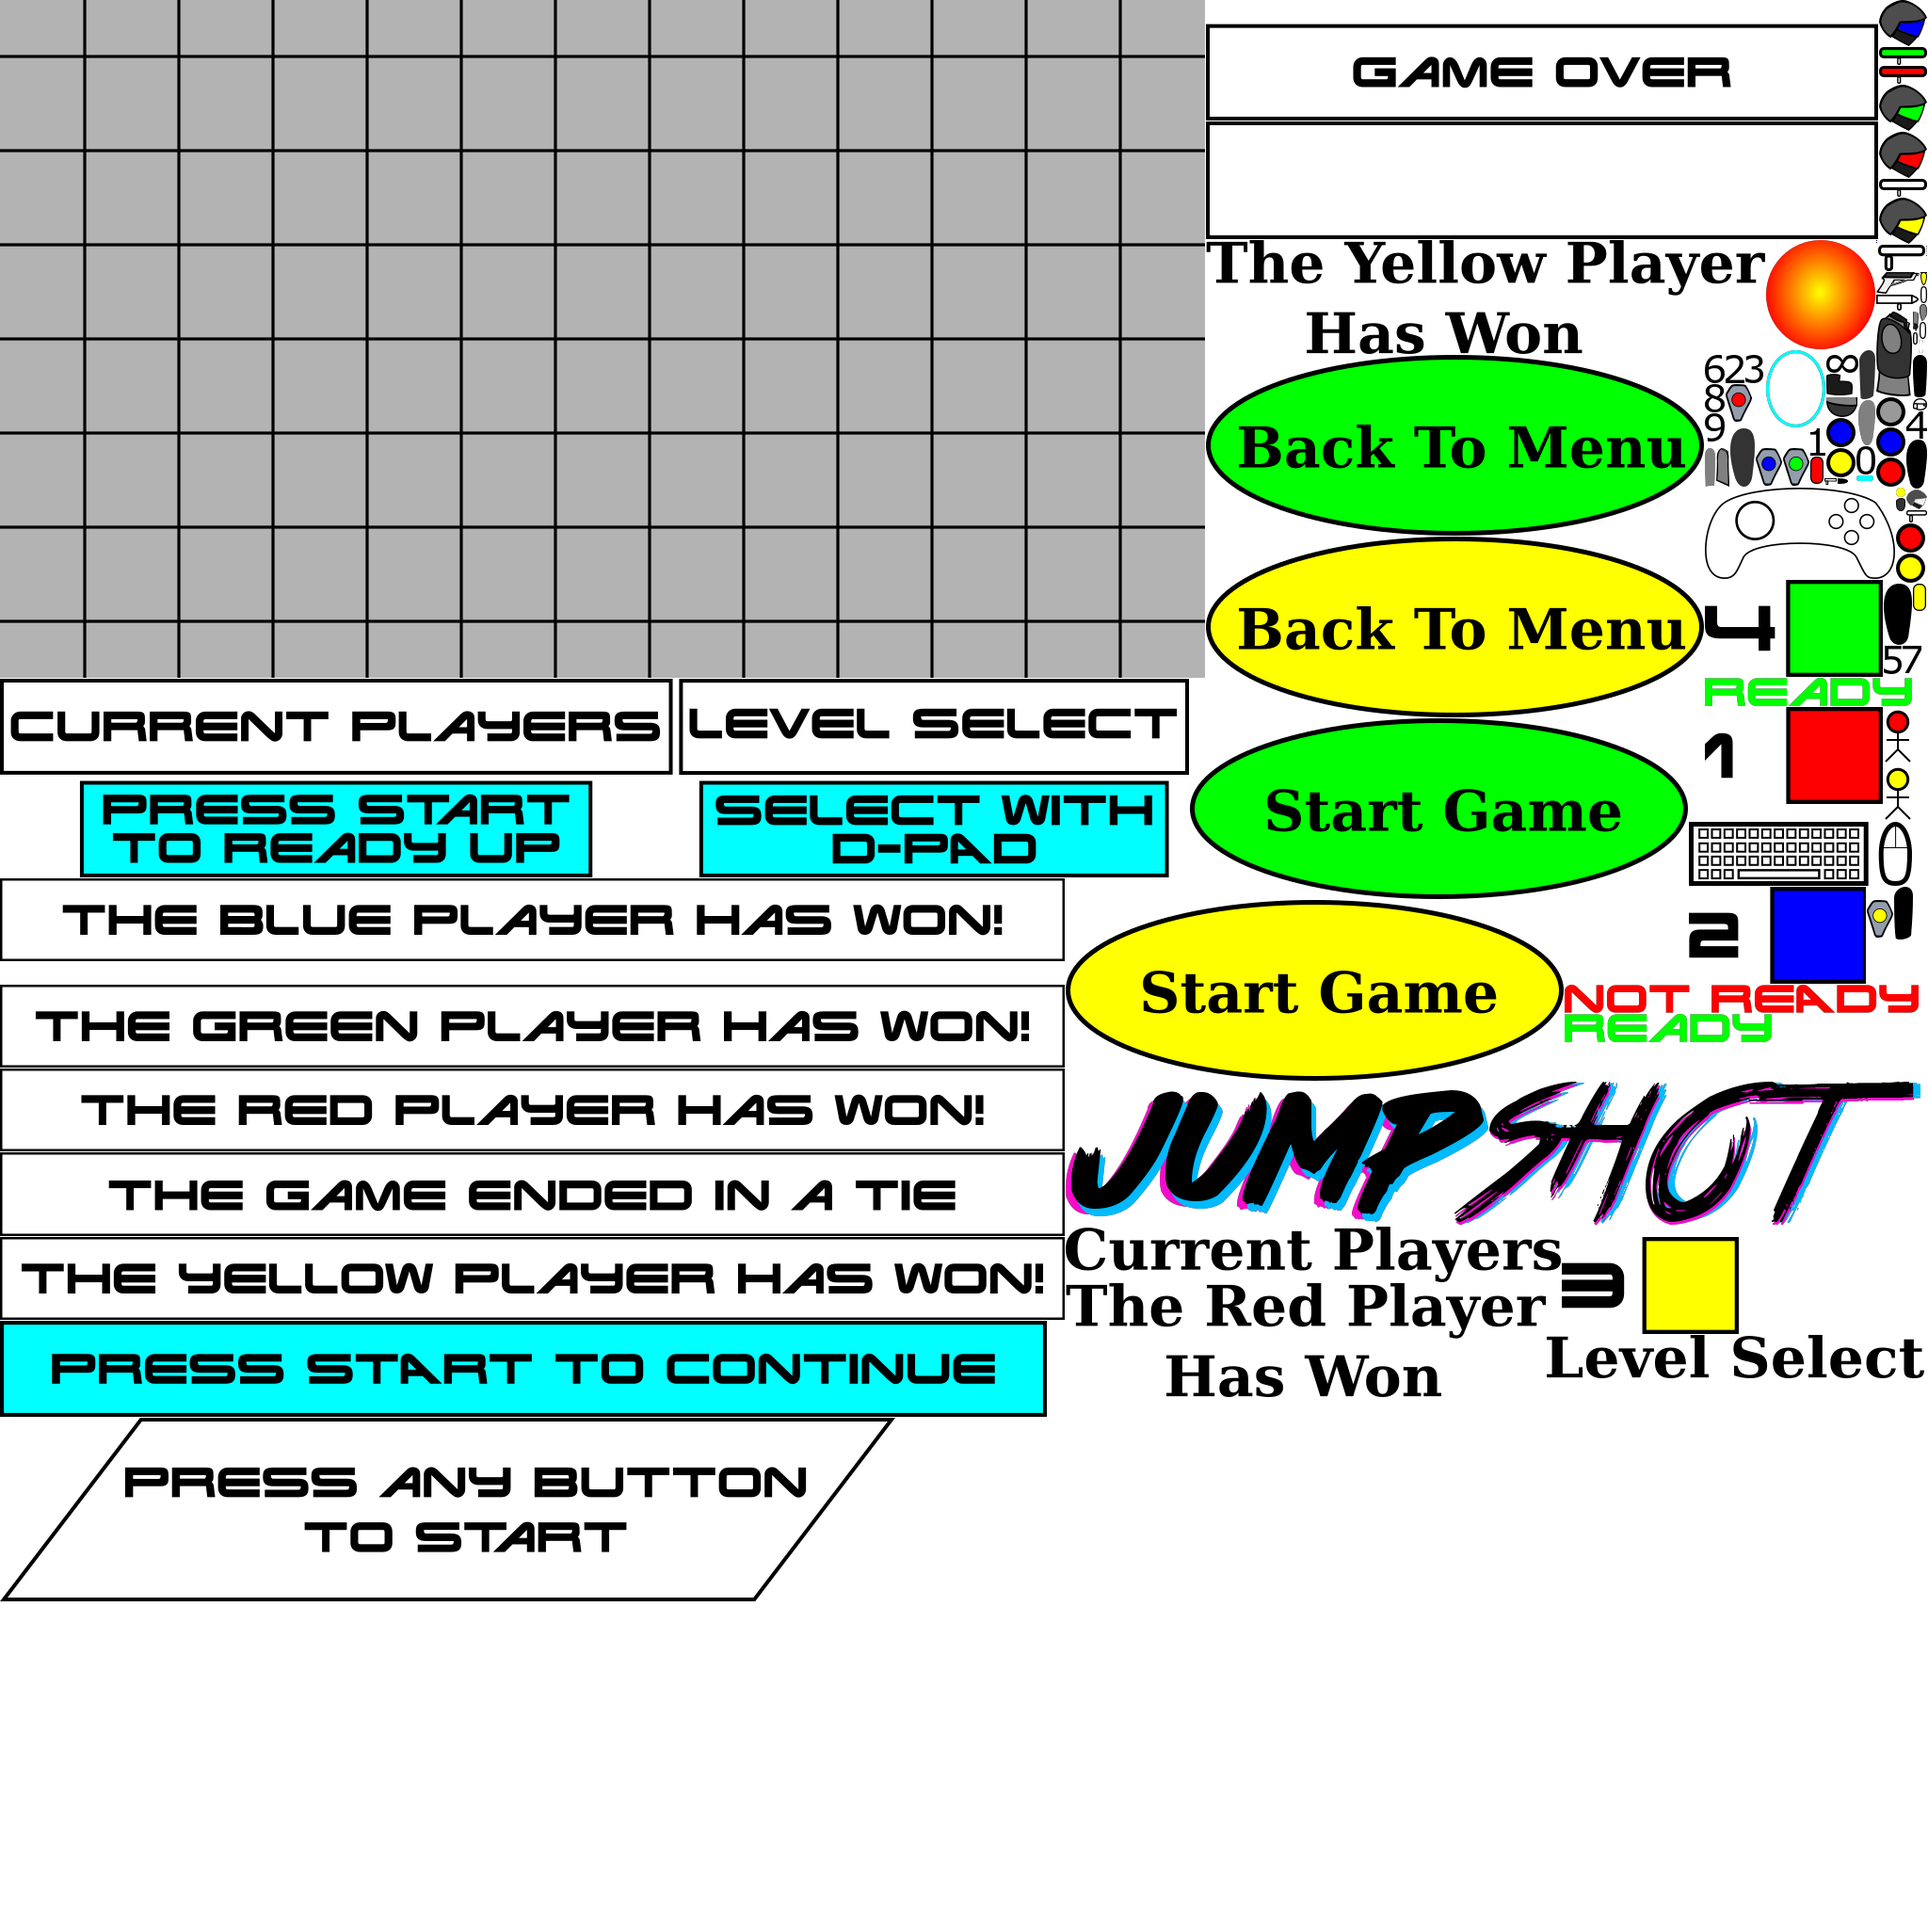
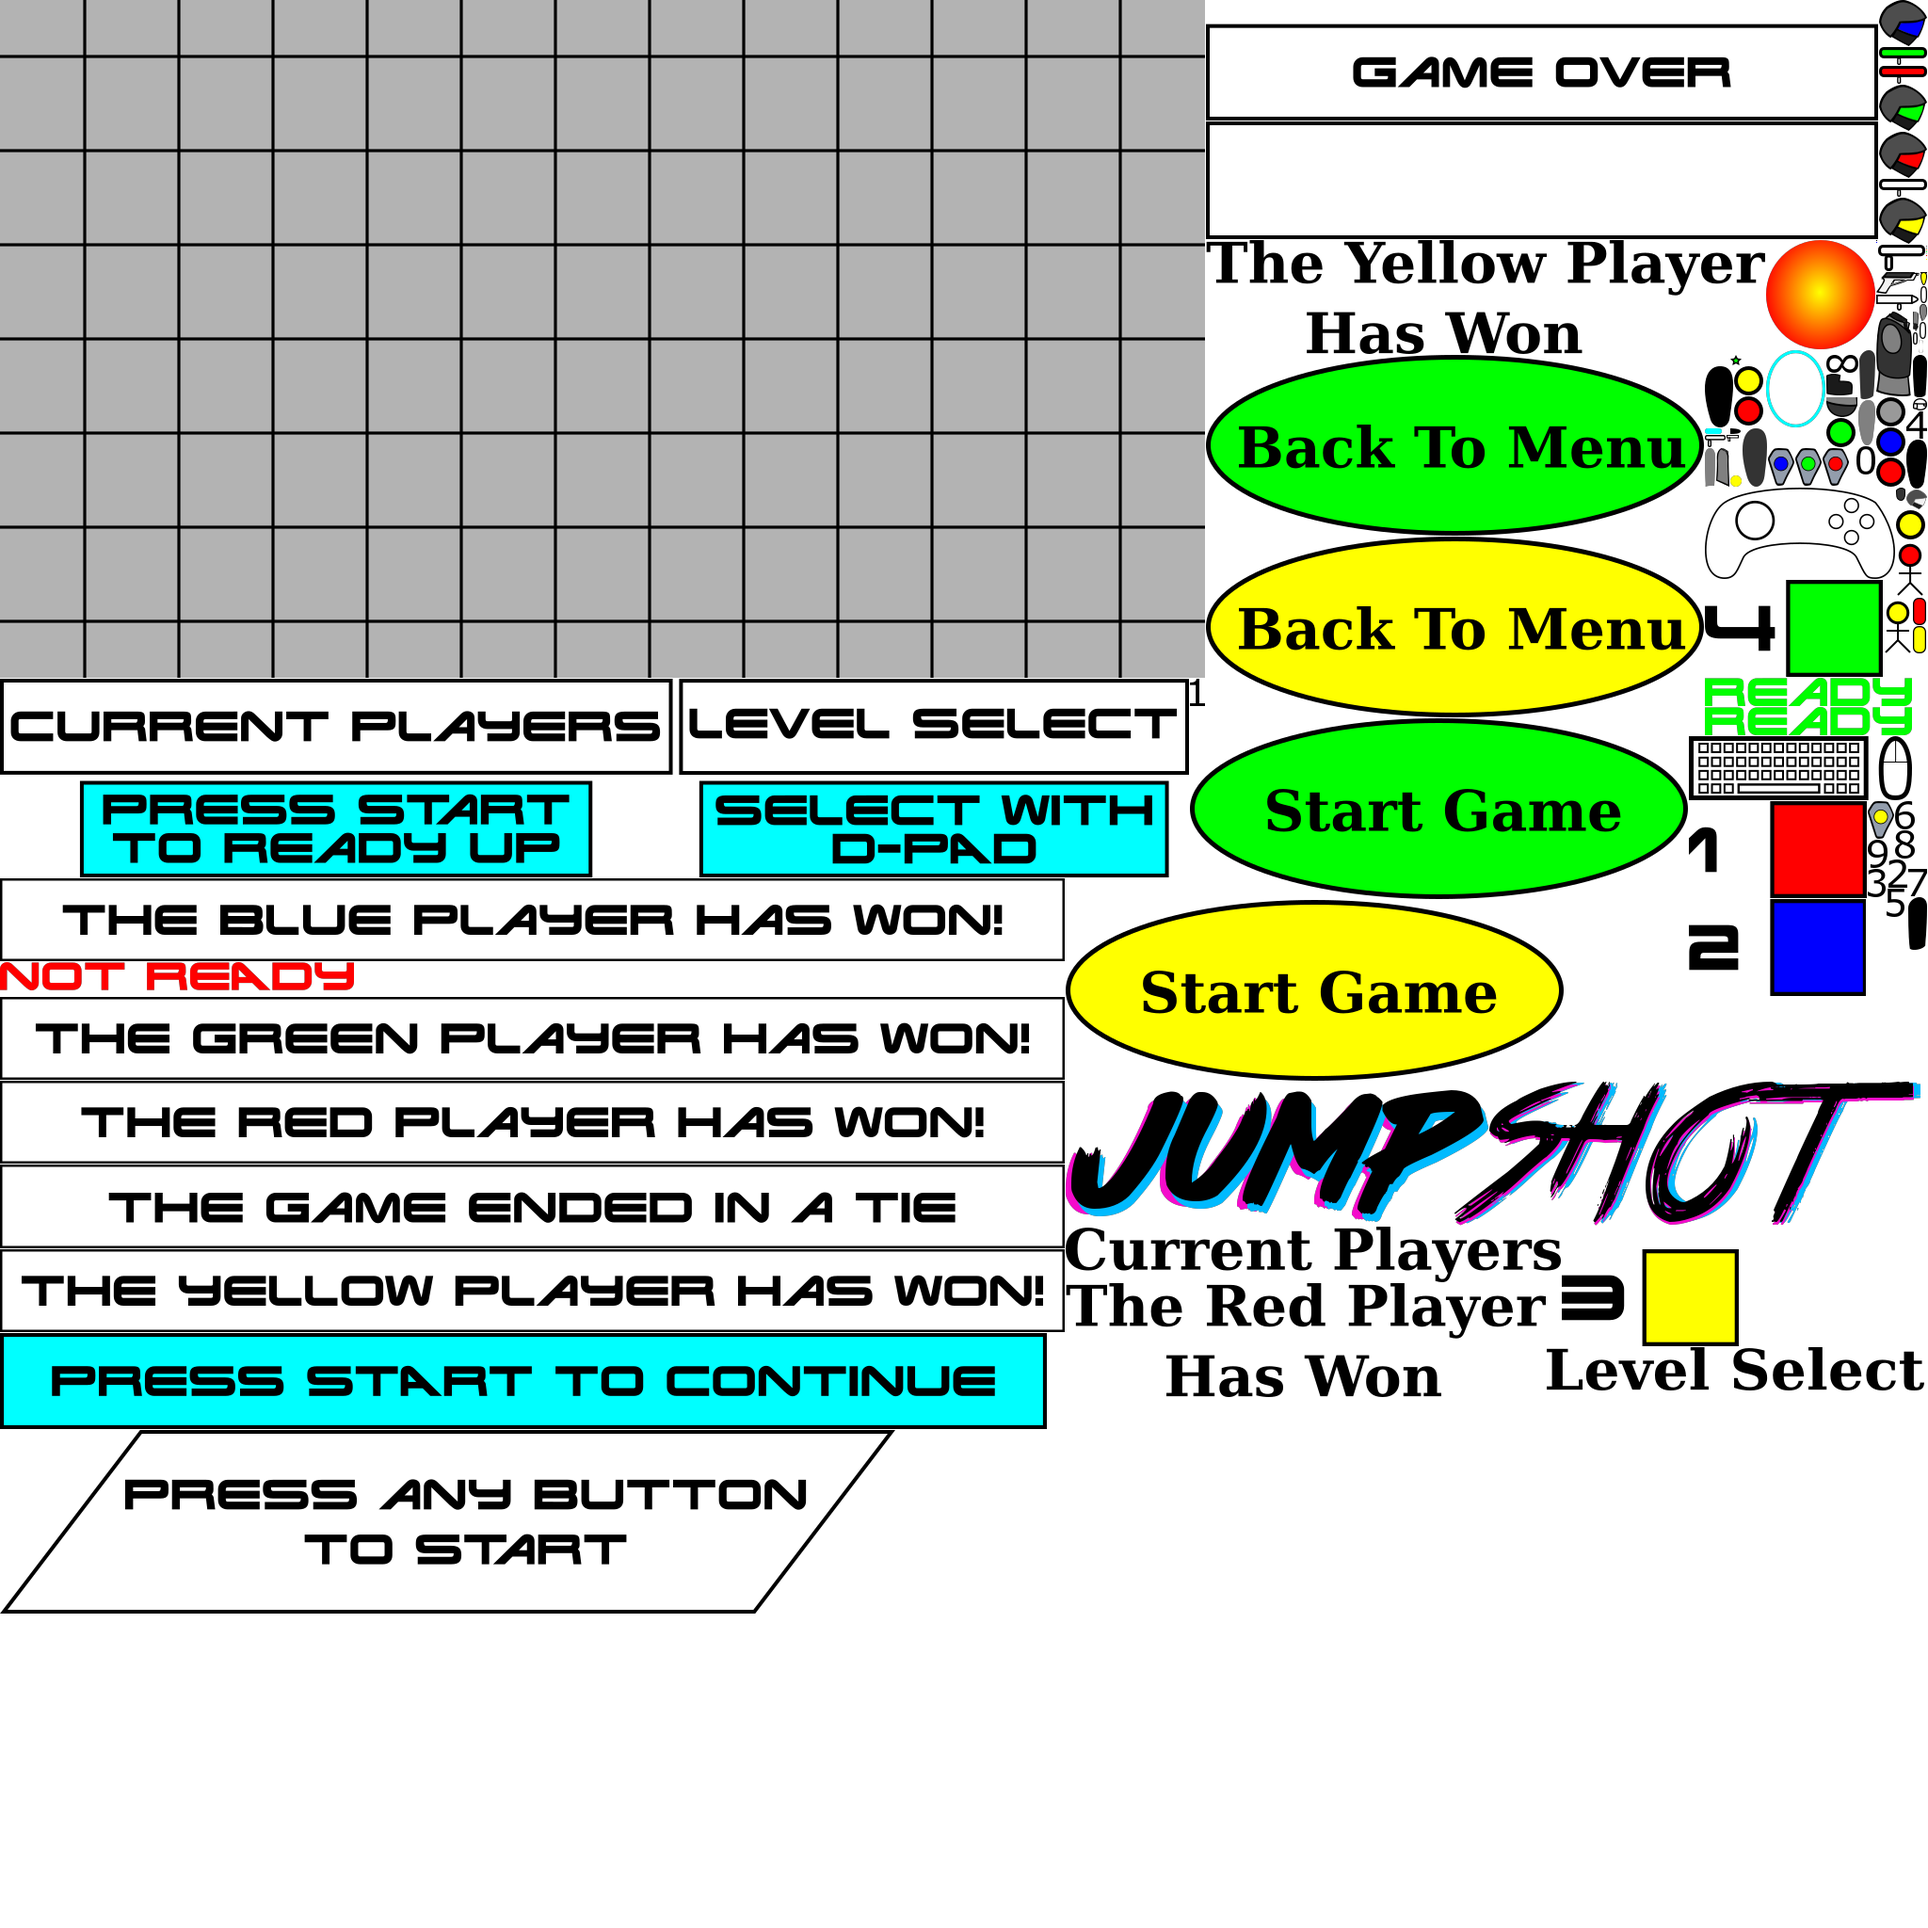
Switch to kills rather than deaths

diff --git a/src/gamescreen.cpp b/src/gamescreen.cpp
@@ -16,6 +16,8 @@
 #define WALL_GRACE 3
 #define GROUND_GRACE 5
 
+const int KILLS_TO_WIN = 5;
+
 GameScreen::GameScreen(const std::vector<PlayerInfo> &infos, const Level& a_level): level(a_level), camera(level.width, level.height) {
 
     // Initialize the player state
@@ -59,58 +61,16 @@ void GameScreen::render(RenderList& list) const {
 
     list.pop();
 
-    // TODO: figure out what HUD elements are staying
-    //list.add_image("black", 0, 660, 1280, 60);
-//    for (unsigned int i = 0; i < players.size(); i++) {
-//        const auto& player = players[i];
-//
-//        int x_offset = 0;
-//
-//        if (i == 0) {
-//            x_offset = 275/2.0;
-//        } else {
-//            x_offset = 1280 - 275/2.0;
-//        }
-//
-//        list.translate(x_offset, 0);
-//
-//        Rectangle info_box(0, 690, 275, 60);
-//        list.add_rect("white", info_box);
-//        list.add_outline("black", info_box);
-//
-//        std::string life_color = "life-" + get_color_name(player.info.color);
-//
-//        const char* dead_color = "deadLife";
-//
-//        for (int i = 0; i < 3; i++) {
-//            Rectangle life_box(-100 + i * 45, 690, 30, 30);
-//            list.add_rect(player.state.lives_left > i ? life_color : dead_color, life_box);
-//        }
-//
-//        {
-//            list.translate(40, 690);
-//            player.state.gun->render_large(list);
-//            list.translate(-40, -690);
-//        }
-//
-//        if (player.state.ammo_left != -1) {
-//            list.add_number(80, 705, player.state.ammo_left);
-//        } else {
-//            list.add_image("inf", 80, 705 - 19);
-//        }
-//
-//        list.translate(-x_offset, 0);
-//    }
-
-
-
-
     if (game_over) {
-        std::string winning_color = "tie";
+        std::string winning_color = "";
 
         for (const auto& player: players) {
-            if (player.state.lives_left != 0) {
-                winning_color = get_color_name(player.info.color);
+            if (player.state.kills == KILLS_TO_WIN) {
+                if (winning_color == "") {
+                    winning_color = get_color_name(player.info.color);
+                } else {
+                    winning_color = "tie";
+                }
             }
         }
 
@@ -507,16 +467,16 @@ std::unique_ptr<Screen> GameScreen::update(const std::map<int, inputs>& all_joys
         }
     }
 
-    auto damage_player_func = [&](int player_index, double damage) {
-        damage_player(player_index, damage);
-    };
-
     bool hit_something = false;
 
     // Update all the bullets
     for (auto& bullet : bullets) {
         double dx = bullet->get_velocity() * cos(bullet->angle);
         double dy = bullet->get_velocity() * sin(bullet->angle);
+
+        auto damage_player_func = [&](int player_index, double damage) {
+            damage_player(player_index, damage, bullet->player_owner);
+        };
 
         bool is_dead = false;
 
@@ -603,7 +563,7 @@ std::unique_ptr<Screen> GameScreen::update(const std::map<int, inputs>& all_joys
     return nullptr;
 }
 
-void GameScreen::damage_player(int player_index, double damage) {
+void GameScreen::damage_player(int player_index, double damage, int shooter_index) {
     if (game_over) {
         return;
     }
@@ -617,24 +577,21 @@ void GameScreen::damage_player(int player_index, double damage) {
     player.state.health -= damage;
 
     if (player.state.health <= 0 && !player.state.is_dead) {
-        player.state.lives_left--;
-        player.state.is_dead = true;
 
-        if (player.state.lives_left == 0) {
-
-            int num_alive = 0;
-            for (const auto& other_player: players) {
-                if (other_player.state.lives_left > 0) {
-                    num_alive ++;
-                }
-            }
-
-            if (num_alive <= 1) {
-                // num alive can be 0 when we have a tie. Sometimes. It's a risk
-                game_over = true;
-            }
+        if (shooter_index == player_index) {
+            // why are you killing yourself?
+            player.state.kills = std::max(0, player.state.kills - 1);
         } else {
-            player.state.ticks_until_spawn = 130;
+            auto& shooter = players[shooter_index];
+            shooter.state.kills++;
+
+            player.state.is_dead = true;
+
+            if (shooter.state.kills == KILLS_TO_WIN) {
+                game_over = true;
+            } else {
+                player.state.ticks_until_spawn = 130;
+            }
         }
     }
 }

diff --git a/src/player.cpp b/src/player.cpp
@@ -221,6 +221,11 @@ void Player::render(RenderList& list) const {
 
     list.add_image(get_color_name(info.color), -18, -60, 36 * health / MAX_HEALTH, 4);
 
+    for (int i = 0; i < state.kills; i++) {
+        Rectangle life_box(-15 + i * 10, -67, 8, 8);
+        list.add_rect("life-" + get_color_name(info.color), life_box);
+    }
+
     if (state.is_dead) {
         double angle = M_PI / 2.0 * (1.0 - ((state.ticks_until_spawn - DEATH_INVISIBLE_TIME) / (float)DEATH_ANIMATION_TIME));
 

diff --git a/src/readyscreen.cpp b/src/readyscreen.cpp
@@ -37,9 +37,10 @@ void ReadyScreen::render(RenderList& list) const {
 		list.add_image("number-" + get_color_name(player.color), 40, 12);
 
 		{
-			list.translate(275, 70);
+			list.push();
+			list.translate(275, 78);
 			player_icons[i].render(list);
-			list.translate(-275, -70);
+			list.pop();
 		}
 
 		if (player_ready[i]) {

diff --git a/src/gamescreen.h b/src/gamescreen.h
@@ -46,7 +46,7 @@ private:
 
     std::unique_ptr<Gun> attempt_pick_up(const Rectangle& rect);
 
-    void damage_player(int player_index, double damage);
+    void damage_player(int player_index, double damage, int shooter_index);
 
     bool game_over = false;
 };

diff --git a/src/player.h b/src/player.h
@@ -72,7 +72,7 @@ struct PlayerState {
     double dy = 0;
 
     double health = MAX_HEALTH;
-    int lives_left = 3;
+    int kills = 0;
 
     int ticks_till_next_bullet = 0;
     int ticks_left_jumping = 0;
